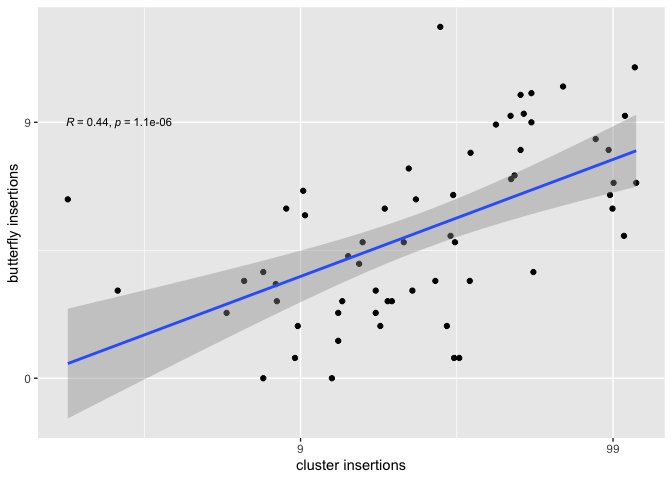
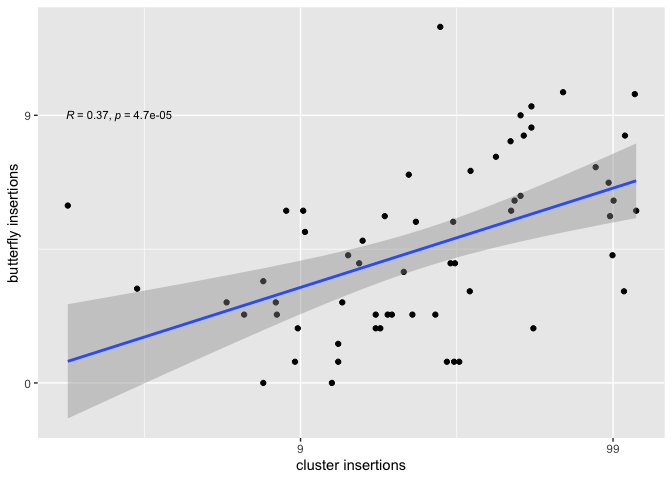
butterflies are now detected based on counts (>=5 reads on both right sense and left antisense) normalized to 1 million piRNAs

diff --git a/helper-scripts/butterfly_finder-genes.py b/helper-scripts/butterfly_finder-genes.py
@@ -33,6 +33,7 @@ args=parser.parse_args()
 
 ws=args.window
 mmq=args.minmq
+pp=0
 
 topr=collections.defaultdict((lambda:collections.defaultdict(lambda:collections.defaultdict(lambda:collections.defaultdict(lambda:[0,0,0,0])))))
 toit=collections.defaultdict((lambda:collections.defaultdict(lambda:[0,0])))
@@ -54,8 +55,10 @@ for l in args.sam:
         continue
     if flag & 0x10: #rc
         toit[chromo][pos][1]+=1
+        pp+=1
     else:
         toit[chromo][pos][0]+=1
+        pp+=1
 
 
 for k in args.bed:
@@ -90,7 +93,7 @@ for t,tmp in topr.items():
     for c,tmp2 in tmp.items():
         for s,tmp3 in tmp2.items():
             for e,ch in tmp3.items():
-                print("{0}\t{1}\t{2}\t{3}\t{4}\t{5}\t{6}\t{7}\t{8}".format(t,c,s,e,ch[0],ch[1],ch[2],ch[3],args.sampleid))
+                print("{0}\t{1}\t{2}\t{3}\t{4}\t{5}\t{6}\t{7}\t{8}".format(t,c,s,e,1000000*ch[0]/pp,1000000*ch[1]/pp,1000000*ch[2]/pp,1000000*ch[3]/pp,args.sampleid))
        
 
 

diff --git a/helper-scripts/butterfly_finder-V2.py b/helper-scripts/butterfly_finder-V2.py
@@ -36,6 +36,7 @@ args=parser.parse_args()
 
 ws=args.window
 mmq=args.minmq
+pp=0
 
 topr=collections.defaultdict((lambda:collections.defaultdict(lambda:collections.defaultdict(lambda:collections.defaultdict(lambda:[0,0,0,0])))))
 toit=collections.defaultdict((lambda:collections.defaultdict(lambda:[0,0])))
@@ -57,8 +58,10 @@ for l in args.sam:
         continue
     if flag & 0x10: #rc
         toit[chromo][pos][1]+=1
+        pp+=1
     else:
         toit[chromo][pos][0]+=1
+        pp+=1
 
 
 for k in args.rm:
@@ -95,7 +98,7 @@ for t,tmp in topr.items():
     for c,tmp2 in tmp.items():
         for s,tmp3 in tmp2.items():
             for e,ch in tmp3.items():
-                print("{0}\t{1}\t{2}\t{3}\t{4}\t{5}\t{6}\t{7}\t{8}".format(t,c,s,e,ch[0],ch[1],ch[2],ch[3],args.sampleid))
+                print("{0}\t{1}\t{2}\t{3}\t{4}\t{5}\t{6}\t{7}\t{8}".format(t,c,s,e,1000000*ch[0]/pp,1000000*ch[1]/pp,1000000*ch[2]/pp,1000000*ch[3]/pp,args.sampleid))
        
 
 

diff --git a/rmd-scripts/butterfly-main.md b/rmd-scripts/butterfly-main.md
@@ -15,7 +15,10 @@ for i in *.sam; do n=${i%.sam}; cat $i|grep -v '^@'|awk '$3 !~ /_miRNA|_rRNA|_sn
 #mapping to genome
 for i in *fastq;do n=${i%.fastq};novoalign -d /Volumes/Temp3/filip/trap_model/whole-genome/assemblies/${n}.nvi -f $i -F STDFQ -o SAM -o FullNW -r RANDOM > map/${n}.sam;done
 #screening for butterflies
-nohup sh -c 'for i in *sam;do n=${i%.sam};python /Volumes/Temp3/filip/trap_model/trapmodel/helper-scripts/butterfly_finder-V2.py --sam $i --rm /Volumes/Temp3/filip/trap_model/whole-genome/repeatmasker/${n}.fasta.out --window 500 --minlen 100 --maxdiv 10.0 --min-mq 5 --id ${n} > other-parameter/TE/${n}_w500.txt;done' &
+#at TEs:
+nohup sh -c 'for i in *sam;do n=${i%.sam};python /Volumes/Temp3/filip/trap_model/trapmodel/helper-scripts/butterfly_finder-V2.py --sam $i --rm /Volumes/Temp3/filip/trap_model/whole-genome/repeatmasker/${n}.fasta.out --window 500 --minlen 100 --maxdiv 10.0 --min-mq 5 --id ${n} > output-V3/TE/${n}_w500.txt;done' &
+#at BUSCOs:
+nohup sh -c 'for i in *sam;do n=${i%.sam};python /Volumes/Temp3/filip/trap_model/trapmodel/helper-scripts/butterfly_finder-genes.py --sam $i --bed /Volumes/Temp3/filip/trap_model/clusterscore/busco_bed/${n}_busco.bed --window 500 --minlen 100 --min-mq 5 --id ${n} > output-V3/busco/${n}_w500.txt;done' &
 ```
 
 ``` r
@@ -37,23 +40,17 @@ library(dplyr)
 library(ggplot2)
 library(ggpubr)
 
-th=15
-#th=30
+th=5
 
-b1<-read.table("/Volumes/Temp3/filip/trap_model/butterfly/filtered-reads/map/other-parameter/TE/Canton-S_w500.txt")
-#b1<-read.table("/Volumes/Temp3/filip/trap_model/butterfly/filtered-reads/map/output-V2/Canton-S.txt")
+b1<-read.table("/Volumes/Temp3/filip/trap_model/butterfly/filtered-reads/map/output-V3/TE/Canton-S_w500.txt")
 names(b1)<-c("TE","chr","start","end","ls","la","rs","ra","strain")
-b2<-read.table("/Volumes/Temp3/filip/trap_model/butterfly/filtered-reads/map/other-parameter/TE/DGRP-732_w500.txt")
-#b2<-read.table("/Volumes/Temp3/filip/trap_model/butterfly/filtered-reads/map/output-V2/DGRP-732.txt")
+b2<-read.table("/Volumes/Temp3/filip/trap_model/butterfly/filtered-reads/map/output-V3/TE/DGRP-732_w500.txt")
 names(b2)<-c("TE","chr","start","end","ls","la","rs","ra","strain")
-b3<-read.table("/Volumes/Temp3/filip/trap_model/butterfly/filtered-reads/map/other-parameter/TE/Iso1_w500.txt")
-#b3<-read.table("/Volumes/Temp3/filip/trap_model/butterfly/filtered-reads/map/output-V2/Iso1.txt")
+b3<-read.table("/Volumes/Temp3/filip/trap_model/butterfly/filtered-reads/map/output-V3/TE/Iso1_w500.txt")
 names(b3)<-c("TE","chr","start","end","ls","la","rs","ra","strain")
-b4<-read.table("/Volumes/Temp3/filip/trap_model/butterfly/filtered-reads/map/other-parameter/TE/Oregon-R_w500.txt")
-#b4<-read.table("/Volumes/Temp3/filip/trap_model/butterfly/filtered-reads/map/output-V2/Oregon-R.txt")
+b4<-read.table("/Volumes/Temp3/filip/trap_model/butterfly/filtered-reads/map/output-V3/TE/Oregon-R_w500.txt")
 names(b4)<-c("TE","chr","start","end","ls","la","rs","ra","strain")
-b5<-read.table("/Volumes/Temp3/filip/trap_model/butterfly/filtered-reads/map/other-parameter/TE/Pi2_w500.txt")
-#b5<-read.table("/Volumes/Temp3/filip/trap_model/butterfly/filtered-reads/map/output-V2/Pi2.txt")
+b5<-read.table("/Volumes/Temp3/filip/trap_model/butterfly/filtered-reads/map/output-V3/TE/Pi2_w500.txt")
 names(b5)<-c("TE","chr","start","end","ls","la","rs","ra","strain")
 
 
@@ -465,18 +462,18 @@ ghis<-ggplot(t, aes(x=cluster, y=indsrel,fill=type))+ geom_bar(stat="identity",p
 
 
 # butterfly signatures busco genes:
-b1<-read.table("/Volumes/Temp3/filip/trap_model/butterfly/filtered-reads/map/other-parameter/busco/Canton-S_w500.txt")
+b1<-read.table("/Volumes/Temp3/filip/trap_model/butterfly/filtered-reads/map/output-V3/busco/Canton-S_w500.txt")
 names(b1)<-c("TE","chr","start","end","ls","la","rs","ra","strain")
-b2<-read.table("/Volumes/Temp3/filip/trap_model/butterfly/filtered-reads/map/other-parameter/busco/DGRP-732_w500.txt")
+b2<-read.table("/Volumes/Temp3/filip/trap_model/butterfly/filtered-reads/map/output-V3/busco/DGRP-732_w500.txt")
 names(b2)<-c("TE","chr","start","end","ls","la","rs","ra","strain")
-b3<-read.table("/Volumes/Temp3/filip/trap_model/butterfly/filtered-reads/map/other-parameter/busco/Iso1_w500.txt")
+b3<-read.table("/Volumes/Temp3/filip/trap_model/butterfly/filtered-reads/map/output-V3/busco/Iso1_w500.txt")
 names(b3)<-c("TE","chr","start","end","ls","la","rs","ra","strain")
-b4<-read.table("/Volumes/Temp3/filip/trap_model/butterfly/filtered-reads/map/other-parameter/busco/Oregon-R_w500.txt")
+b4<-read.table("/Volumes/Temp3/filip/trap_model/butterfly/filtered-reads/map/output-V3/busco/Oregon-R_w500.txt")
 names(b4)<-c("TE","chr","start","end","ls","la","rs","ra","strain")
-b5<-read.table("/Volumes/Temp3/filip/trap_model/butterfly/filtered-reads/map/other-parameter/busco/Pi2_w500.txt")
+b5<-read.table("/Volumes/Temp3/filip/trap_model/butterfly/filtered-reads/map/output-V3/busco/Pi2_w500.txt")
 names(b5)<-c("TE","chr","start","end","ls","la","rs","ra","strain")
 
-th=15 #
+th=5 #
 
 ic=b1[FALSE,]
 
@@ -549,15 +546,15 @@ buscosum$type<-c("busco")
 #########################TEs
 
 #butterfly signatures:
-b1<-read.table("/Volumes/Temp3/filip/trap_model/butterfly/filtered-reads/map/other-parameter/TE/Canton-S_w500.txt")
+b1<-read.table("/Volumes/Temp3/filip/trap_model/butterfly/filtered-reads/map/output-V3/TE/Canton-S_w500.txt")
 names(b1)<-c("TE","chr","start","end","ls","la","rs","ra","strain")
-b2<-read.table("/Volumes/Temp3/filip/trap_model/butterfly/filtered-reads/map/other-parameter/TE/DGRP-732_w500.txt")
+b2<-read.table("/Volumes/Temp3/filip/trap_model/butterfly/filtered-reads/map/output-V3/TE/DGRP-732_w500.txt")
 names(b2)<-c("TE","chr","start","end","ls","la","rs","ra","strain")
-b3<-read.table("/Volumes/Temp3/filip/trap_model/butterfly/filtered-reads/map/other-parameter/TE/Iso1_w500.txt")
+b3<-read.table("/Volumes/Temp3/filip/trap_model/butterfly/filtered-reads/map/output-V3/TE/Iso1_w500.txt")
 names(b3)<-c("TE","chr","start","end","ls","la","rs","ra","strain")
-b4<-read.table("/Volumes/Temp3/filip/trap_model/butterfly/filtered-reads/map/other-parameter/TE/Oregon-R_w500.txt")
+b4<-read.table("/Volumes/Temp3/filip/trap_model/butterfly/filtered-reads/map/output-V3/TE/Oregon-R_w500.txt")
 names(b4)<-c("TE","chr","start","end","ls","la","rs","ra","strain")
-b5<-read.table("/Volumes/Temp3/filip/trap_model/butterfly/filtered-reads/map/other-parameter/TE/Pi2_w500.txt")
+b5<-read.table("/Volumes/Temp3/filip/trap_model/butterfly/filtered-reads/map/output-V3/TE/Pi2_w500.txt")
 names(b5)<-c("TE","chr","start","end","ls","la","rs","ra","strain")
 
 #cluster annotations to exclude from butterfly signatures:
@@ -844,7 +841,7 @@ g<-ggarrange(gbt, ghis,
                 ncol = 1, nrow = 2)
 ```
 
-    ## Warning: Removed 139 rows containing missing values (geom_bar).
+    ## Warning: Removed 134 rows containing missing values (geom_bar).
 
 ``` r
 plot(g)

diff --git a/rmd-scripts/supp_butterfly-cor.md b/rmd-scripts/supp_butterfly-cor.md
@@ -22,23 +22,17 @@ library(dplyr)
 library(ggplot2)
 library(ggpubr)
 
-th=15
-#th=30
+th=5
 
-b1<-read.table("/Volumes/Temp3/filip/trap_model/butterfly/filtered-reads/map/other-parameter/TE/Canton-S_w500.txt")
-#b1<-read.table("/Volumes/Temp3/filip/trap_model/butterfly/filtered-reads/map/output-V2/Canton-S.txt")
+b1<-read.table("/Volumes/Temp3/filip/trap_model/butterfly/filtered-reads/map/output-V3/TE/Canton-S_w500.txt")
 names(b1)<-c("TE","chr","start","end","ls","la","rs","ra","strain")
-b2<-read.table("/Volumes/Temp3/filip/trap_model/butterfly/filtered-reads/map/other-parameter/TE/DGRP-732_w500.txt")
-#b2<-read.table("/Volumes/Temp3/filip/trap_model/butterfly/filtered-reads/map/output-V2/DGRP-732.txt")
+b2<-read.table("/Volumes/Temp3/filip/trap_model/butterfly/filtered-reads/map/output-V3/TE/DGRP-732_w500.txt")
 names(b2)<-c("TE","chr","start","end","ls","la","rs","ra","strain")
-b3<-read.table("/Volumes/Temp3/filip/trap_model/butterfly/filtered-reads/map/other-parameter/TE/Iso1_w500.txt")
-#b3<-read.table("/Volumes/Temp3/filip/trap_model/butterfly/filtered-reads/map/output-V2/Iso1.txt")
+b3<-read.table("/Volumes/Temp3/filip/trap_model/butterfly/filtered-reads/map/output-V3/TE/Iso1_w500.txt")
 names(b3)<-c("TE","chr","start","end","ls","la","rs","ra","strain")
-b4<-read.table("/Volumes/Temp3/filip/trap_model/butterfly/filtered-reads/map/other-parameter/TE/Oregon-R_w500.txt")
-#b4<-read.table("/Volumes/Temp3/filip/trap_model/butterfly/filtered-reads/map/output-V2/Oregon-R.txt")
+b4<-read.table("/Volumes/Temp3/filip/trap_model/butterfly/filtered-reads/map/output-V3/TE/Oregon-R_w500.txt")
 names(b4)<-c("TE","chr","start","end","ls","la","rs","ra","strain")
-b5<-read.table("/Volumes/Temp3/filip/trap_model/butterfly/filtered-reads/map/other-parameter/TE/Pi2_w500.txt")
-#b5<-read.table("/Volumes/Temp3/filip/trap_model/butterfly/filtered-reads/map/output-V2/Pi2.txt")
+b5<-read.table("/Volumes/Temp3/filip/trap_model/butterfly/filtered-reads/map/output-V3/TE/Pi2_w500.txt")
 names(b5)<-c("TE","chr","start","end","ls","la","rs","ra","strain")
 
 
